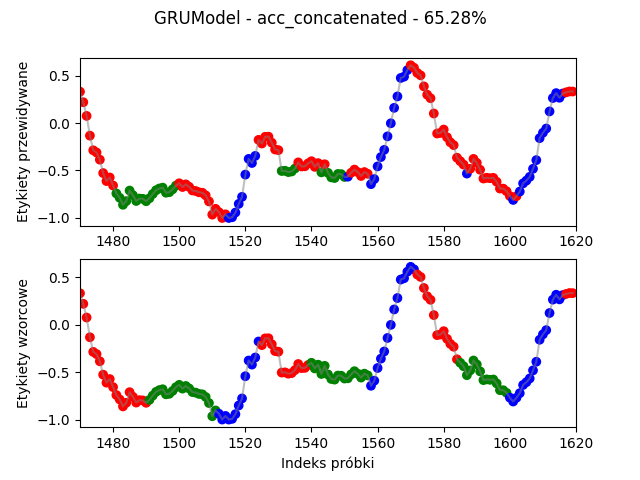
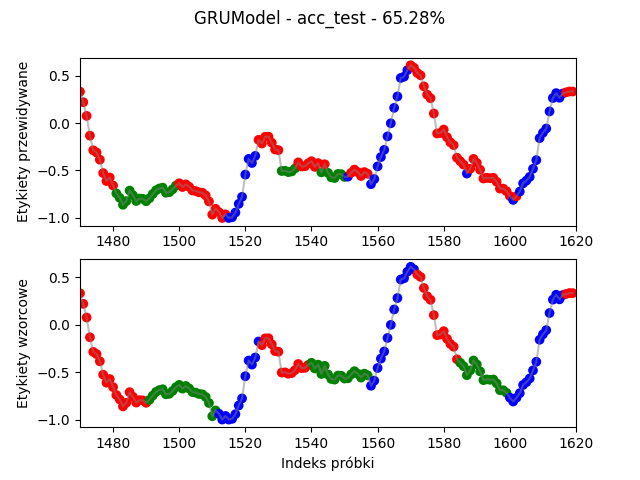
Add confusion matrix plotting

Changed region(s): [[0.25, 0.0, 0.7812, 0.0625]]

diff --git a/models/AbstractModel.py b/models/AbstractModel.py
@@ -3,6 +3,8 @@ from enum import Enum
 
 import numpy as np
 from keras.src.utils import to_categorical
+from sklearn.metrics import confusion_matrix
+import matplotlib.pyplot as plt
 
 from scripts.plot import interactive_plot
 
@@ -96,7 +98,56 @@ class AbstractModel(metaclass=ABCMeta):
         """
         raise NotImplementedError("The predict() method is not implemented")
 
+    def confusion_matrix(self, X_test: np.ndarray, y_test: np.ndarray, name=None) -> np.ndarray:
+        """
+        Method for calculating and presenting the confusion matrix.
+        """
+        conf_matrix = confusion_matrix(y_test, self.predict(X_test))
+        print(conf_matrix)
+        print(y_test)
+
+        fig, ax = plt.subplots(figsize=(8, 7))
+        im = ax.imshow(conf_matrix, cmap=plt.cm.Blues)
+        text_colors = ["black", "white"]
+        thresh = conf_matrix.max() / 2.
+
+        for i in range(conf_matrix.shape[0]):
+            for j in range(conf_matrix.shape[1]):
+                # Wybór koloru tekstu
+                text_color = text_colors[int(conf_matrix[i, j] > thresh)]
+                ax.text(
+                    x=j, y=i, s=conf_matrix[i, j], va='center', ha='center', color=text_color)
+
+        ax.figure.colorbar(im, ax=ax, fraction=0.046, pad=0.04)
+
+        class_labels = {
+            0: "Wydech",
+            1: "Bezdech\npo wydechu",
+            2: "Wdech",
+            3: "Bezdech\npo wdechu",
+        }
+
+        ax.set_xticklabels(class_labels[i]
+                           for i in range(conf_matrix.shape[1]))
+        ax.set_yticklabels(class_labels[i]
+                           for i in range(conf_matrix.shape[0]))
+        plt.setp(ax.get_xticklabels(), fontsize=8)
+        plt.setp(ax.get_yticklabels(), fontsize=8)
+
+        ax.set(xticks=np.arange(conf_matrix.shape[1]),
+               yticks=np.arange(conf_matrix.shape[0]),
+               ylabel='Właściwa klasa',
+               xlabel='Predykcja')
+        plt.title('Macierz konfuzji: ' +
+                  self.__class__.__name__ + " - " + name)
+        plt.show()
+
+        return conf_matrix
+
     def plot_prediction(self, X_test, name=None) -> None:
+        """
+        Method for plotting the prediction.
+        """
         title = f"{self.__class__.__name__} - {name} - {self.evaluate() * 100:.2f}%"
         if X_test.shape[1] == 1:
             interactive_plot(

diff --git a/main.py b/main.py
@@ -8,7 +8,7 @@ from scripts.plot import plot_history, plot_evaluation_history, plot_test_data
 #  plot so it can be used in this test using predicted
 #  data from model and X_test, y_test fields
 
-SENSOR = SensorType.TENSOMETER
+SENSOR = SensorType.ACCELEROMETER
 SENSOR_NAME = SENSOR.value["name"]
 
 
@@ -42,8 +42,10 @@ if __name__ == "__main__":
     model.fit(sensor_type=f"{SENSOR_NAME}", epochs=50)
 
     # model.load(f"models/saves/{SENSOR_NAME}/GRUModel_{SENSOR_NAME}")
-    model.plot_prediction(model.X_test, name=f"{SENSOR_NAME}_concatenated")
     model.save(f"models/saves/{SENSOR_NAME}/GRUModel_{SENSOR_NAME}")
+    model.confusion_matrix(model.X_test, model.y_test,
+                           name=f"{SENSOR_NAME}_test")
+    model.plot_prediction(model.X_test, name=f"{SENSOR_NAME}_test")
     plot_history(f"models/saves/{SENSOR_NAME}/GRUModel.history")
 
     # plot_test_data(SENSOR_NAME)
